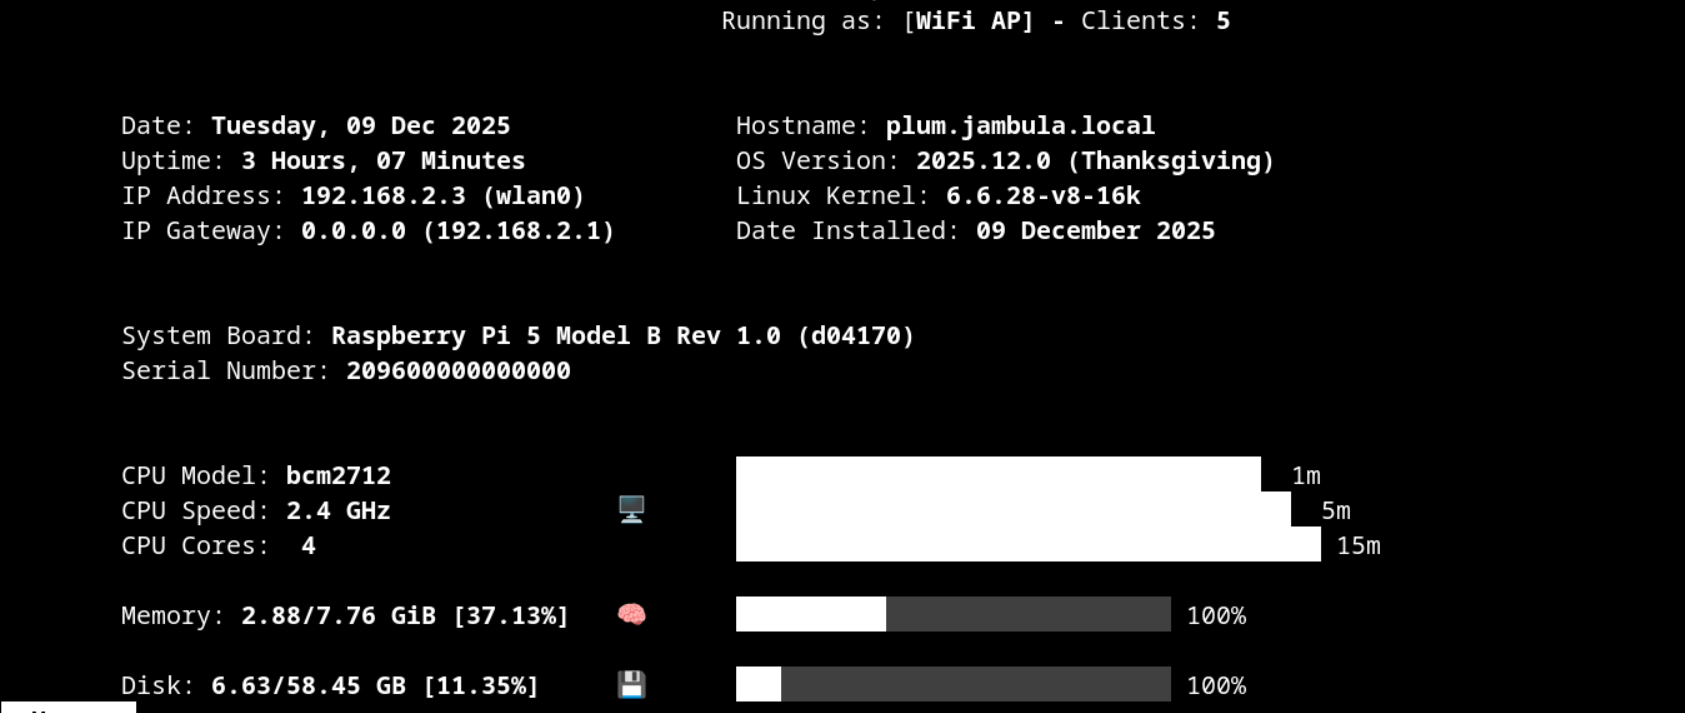
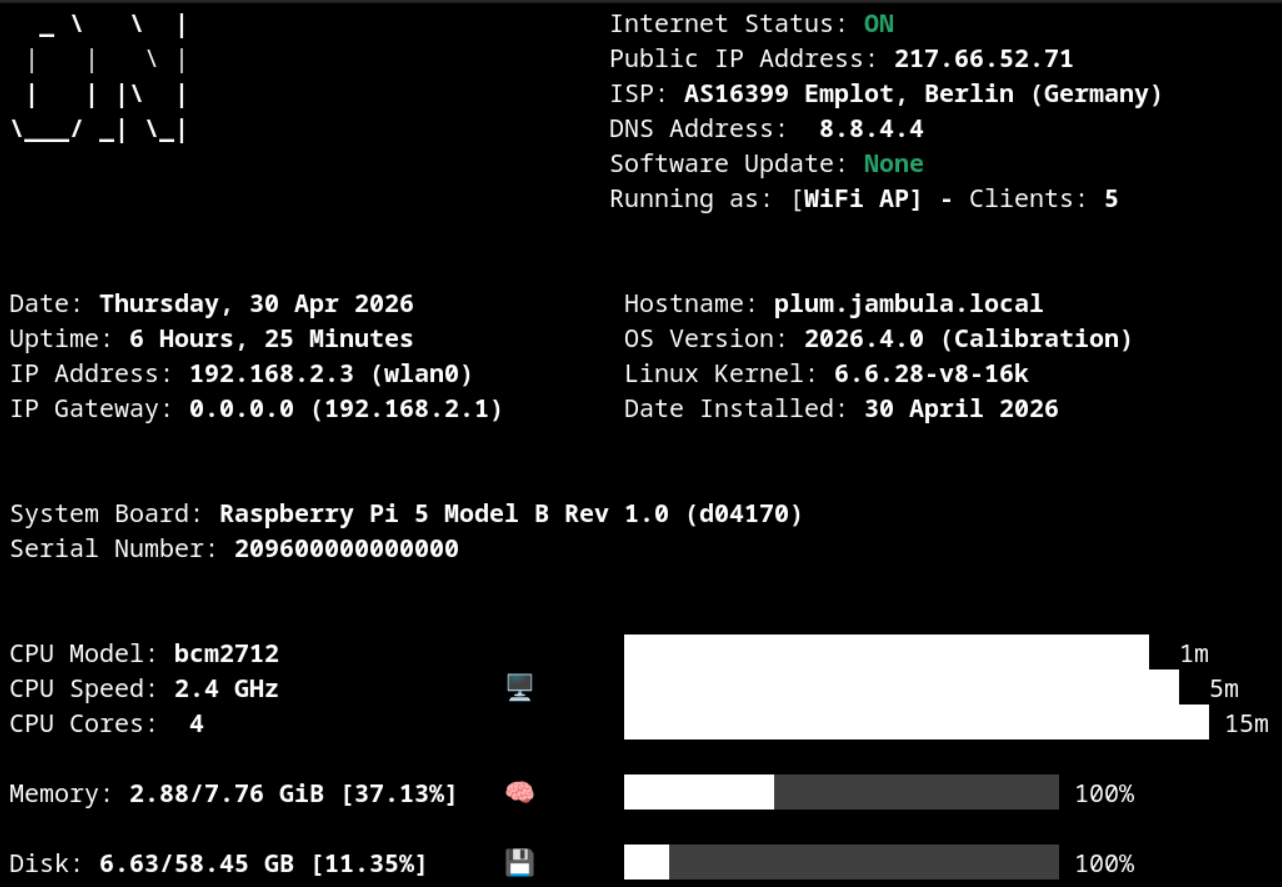
Bump version to 2026.5.0

Changed region(s): [[0.0, 0.0, 0.9984, 1.0], [0.0936, 0.0, 0.156, 0.0309], [0.0312, 0.0, 0.0624, 0.0309]]

diff --git a/CHANGELOG.md b/CHANGELOG.md
@@ -1,5 +1,44 @@
 # Changes
 
+
+𝟐𝟎𝟐6.5.𝟎
+--------
+
+Protect against the Copy Fail vulnerability
+
+Added support for 5 GHz Wi-Fi band with reduced Bluetooth interference on combo wireless devices
+
+Introduced built-in Prosody (XMPP) server with setup scripts and DNS support for local, offline messaging
+
+Added new tool: jambula-switch-wifi-ap-band for easier Wi-Fi band management
+
+Enabled automatic Wi-Fi interface detection during hotspot and client setup
+
+Improved firewall configuration with updated zones, policies, and service rules (including XMPP and OpenNDS)
+
+Added OpenNDS captive portal support with nginx integration
+
+Added SSL certificate setup script
+
+Upgraded Frigate to 0.17.x with continuous recording support and improved setup
+
+Upgraded go2rtc to 1.9.14 with improved camera configuration
+
+Enhanced MQTT tooling with multi-topic support and motion alerts
+
+Fixed slow shutdown issues by improving service ordering (snapclient)
+
+Added watchdog to improve MPD service reliability
+
+Improved dnsmasq with nftables (nftsets) support
+
+Added WebDAV support via nginx module
+
+Cleaned up deprecated patches and removed unused packages
+
+General system improvements, bug fixes, and stability enhancements
+
+
 𝟐𝟎𝟐𝟓.𝟗.𝟎
 ---------
 

diff --git a/README.md b/README.md
@@ -24,7 +24,7 @@ You will also need a Raspberry Pi 5 along with all required boot accessories, in
 
 1. Raspberry Pi 5 Model B Rev 1.0
 
-![alt text](graphics/jambula_os_2025_12.png "Jambula OS Console - System Information")
+![alt text](graphics/jambula_os_2026_5.png "Jambula OS Console - System Information")
 
 <b> How to quickly get started </b>
 
@@ -38,7 +38,7 @@ You will also need a Raspberry Pi 5 along with all required boot accessories, in
 
    cd /tmp
 
-   7za e jambulaOS-202512-261012-img.7z
+   7za e jambulaOS-202605-071430-img.7z
 
 3. Burn the resulting image i.e. sdcard.img to your SD card using a tool such as dd
 
@@ -90,11 +90,11 @@ You will also need a Raspberry Pi 5 along with all required boot accessories, in
 
 1. Raspberry Pi 4 and 3 series hardware support
 
-2. Offline chat messaging
+2. Photo management
 
-3. Photo management
+3. Network and device monitoring
 
-4. Network and device monitoring
+4. Support for x86_64 platform
 
 
 <b>IMPORTANT:  Support Jambula OS</b>
